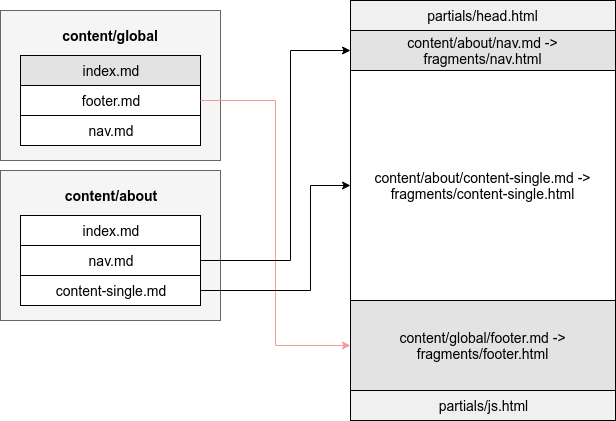
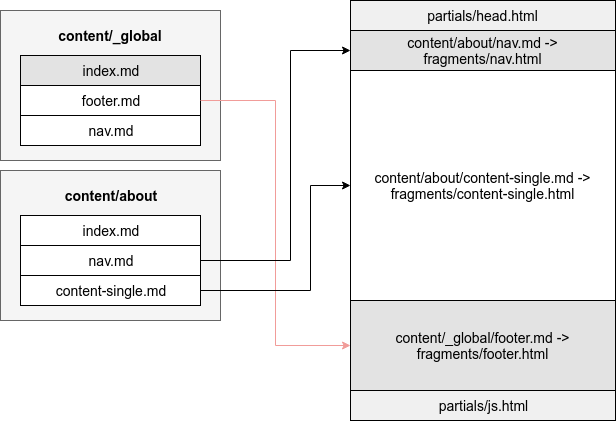
Update the documentation

Changed region(s): [[0.6477, 0.772, 0.9253, 0.8337], [0.0925, 0.0618, 0.2776, 0.1235]]

diff --git a/docs/README.md b/docs/README.md
@@ -23,13 +23,13 @@ Each page within a Syna based website is created using fragments.
 <!-- TOC -->
 
 - [Documentation](#documentation)
-  - [Usage and concepts](#usage-concepts)
+  - [Usage and concepts](#usage-and-concepts)
     - [Fragments](#fragments)
     - [Built-in fragments](#built-in-fragments)
     - [Image resource fallthrough](#image-resource-fallthrough)
-    - [Supported colors](#supported-colors)
+    - [Supported Colors](#supported-colors)
     - [Short-comings](#short-comings)
-  - [Development](#front-end-development-and-design)
+  - [Front-end development and design](#front-end-development-and-design)
     - [Styles](#styles)
     - [JavaScript](#javascript)
     - [Fragment implementation](#fragment-implementation)
@@ -51,7 +51,7 @@ You can add your own custom fragment by creating a new layout file within your w
 If this path doesn't exist yet, you can create it beforehand.
 
 For fragments of a website, that need to show up on every page, we have global fragments.
-Global fragments are located in a special content directory `content/global/`.
+Global fragments are located in a special content directory `content/_global/`.
 All fragments within this directory are rendered on all pages by default.
 *To not render the whole page as a subpath of your website the index.md file defines the whole directory as a `headless` bundle*
 To overwrite a global fragment create a per page fragment with the same filename.
@@ -81,7 +81,7 @@ Using the `weight` attribute you can specify the place on the page the fragment 
 
 ### Built-in fragments
 
-Currently the following fragments are available. Their [usage example](https://github.com/okkur/syna/tree/master/exampleSite/content/index) is available as well.
+Currently the following fragments are available. Their [usage example](https://github.com/okkur/syna/tree/master/exampleSite/content/_index) is available as well.
 
 - **content-single**: markdown content
 - **content-split**: markdown content with an additional sidebar
@@ -184,7 +184,7 @@ The rendering code flow of Syna would do the following:
 
 - `head.html` partial is rendered from `baseof.html` layout
 - `single.html` layout is rendered
-  - It checks for global fragment content files located in `content/global/`
+  - It checks for global fragment content files located in `content/_global/`
   - It finds all per page fragment content files located in `content/[page]/`(using [Hugo resources](https://gohugo.io/content-management/page-resources/#readout)) on the page
   - It renders global fragments if there is no per page fragment with the same file name
   - It renders all remaining per page fragments
